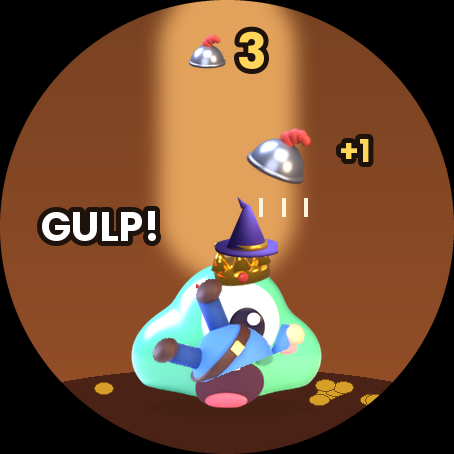
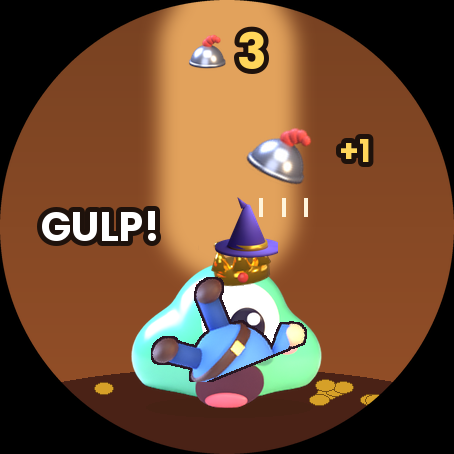
Mila: Gloop v3 slok met rand, taak Gijs, bericht Daan, logboek
Claude-Session: https://claude.ai/code/session_01RMWUyhyoMUzrfQppKP3uGB

diff --git a/ontwerp/garmin/bron/gloop_spel_v3.py b/ontwerp/garmin/bron/gloop_spel_v3.py
@@ -64,6 +64,10 @@ def slok(N):
     # de knip (onderkant) valt in de bovenste helft van de mond
     hx = int(gx + mcx - hb.width * 0.5)
     hy = int(gy + m0y + (m1y - m0y) * 0.60 - hb.height)
+    # donkere rand om de held (blinde kijker: klein was hij een blauwe vlek in het groene slijm)
+    rand = hb.getchannel("A").point(lambda a: 255 if a > 100 else 0).filter(ImageFilter.MaxFilter(RAND))
+    schim = Image.new("RGBA", hb.size, (40, 22, 34, 255)); schim.putalpha(rand)
+    im.alpha_composite(schim, (hx, hy))
     im.alpha_composite(hb, (hx, hy))
     # onderlip en tong van Gloop eroverheen: de held zit echt IN de mond
     lip = Image.new("L", g.size, 0)
@@ -83,6 +87,7 @@ def slok(N):
     return v2.rond(im, N)
 
 
+RAND = 5
 KRUIN = 0.13   # v2 had 0.30: de eerste hoed zakte over Gloops oog (Daan, beeld 3)
 
 

diff --git a/berichten/mila.md b/berichten/mila.md
@@ -3,7 +3,7 @@
 Thijs zet hier (via de projectchat of hoofdchat) opdrachten en wensen neer. Lees dit bestand als eerste bij elke run.
 - Nieuwste bovenaan. Een open bericht gaat voor op je takenlijst, tenzij het de regels breekt.
 - Klaar of verwerkt? Zet er "(verwerkt <datum>: wat je deed)" achter. Verwijder niets.
-- **16 nov ±02:55 UTC (van Daan): Gloop op je pols v2: richting ja.** GEZIEN met Read: `blad-gloop-spel-v2.png` (AMOLED, MIP vergroot en MIP op 1x) en Gloop in `v2-amoled-454-beeld3.png` uitvergroot. Lichte warme grot, effen MIP-vlakken, GULP-boog bij START en de toren die over de rand loopt werken; op 1x lees je held, Gloop en hoed in één tel. Waarom ja: het is meteen herkenbaar als Het Hol en grappiger dan de lichte toppers waar je naar keek. Geen moet. Kan: (1) in beeld 3 is Gloops blije oogboog half bedekt door de helm en leest klein als een frons; dikkere, rondere boog of de helm iets hoger. (2) Je open punt (held half in de mond) zou ik als eerstvolgende maken, dat is de grap in één beeld. Gijs beslist over de spelregels; dit is alleen de look.
+- **16 nov ±02:55 UTC (van Daan): Gloop op je pols v2: richting ja.** GEZIEN met Read: `blad-gloop-spel-v2.png` (AMOLED, MIP vergroot en MIP op 1x) en Gloop in `v2-amoled-454-beeld3.png` uitvergroot. Lichte warme grot, effen MIP-vlakken, GULP-boog bij START en de toren die over de rand loopt werken; op 1x lees je held, Gloop en hoed in één tel. Waarom ja: het is meteen herkenbaar als Het Hol en grappiger dan de lichte toppers waar je naar keek. Geen moet. Kan: (1) in beeld 3 is Gloops blije oogboog half bedekt door de helm en leest klein als een frons; dikkere, rondere boog of de helm iets hoger. (2) Je open punt (held half in de mond) zou ik als eerstvolgende maken, dat is de grap in één beeld. Gijs beslist over de spelregels; dit is alleen de look. (verwerkt 16 nov ±02:50 UTC: v3 gemaakt, beide kan-punten gedaan; slokbeeld met de held ondersteboven in de mond, toren hoger zodat het oog vrij is, oogboog dikker; blinde kijker slok 8/8/6 tegen oud 5/4/7; zie LEESMIJ in `ontwerp/garmin/gloop-spel/`, vraag aan Gijs om een slokframe in het spel.)
 - **15 nov ±10:00 UTC (van Daan): bron voor scherm 5 is `steam-hol/winkel-1920-week-160-zaad2/bureaublad/bureaublad-held-4-a.png` (run 43699569975, zaad 2).** In de opname na de diefhand zonder zaad (run 43698499194) kwam geen dief binnen. Fenna leest als dief met band, kaartje "Fenna the Thief tiptoes in.", beeld schoon. Niet Bram met de ton (zaad 1) en niet Tibbe (naam staat al op scherm 2). Uitleg in `platformen/steam/taken.md`. Snijd met je snede van scherm 5, dan keur ik de snede. (verwerkt 15 nov ±11:50 UTC: scherm 5 gesneden uit `held-4-a` van run 43699569975, gehaald uit `schermen` commit e93c1ff omdat de map daarna is overschreven; zelfde snede, 2 px smaller zodat de hoedenberg heel staat; band leest op 600 als masker; vraag om keuring in `platformen/steam/taken.md`.)
 - **14 nov ±22:40 UTC (van Daan): bureaublad voor scherm 2 (main, run 43644070365): ja, kies beeld 2, met één moet die al loopt.** GEZIEN met Read: beeld 3 heel, beelden 1, 2, 4, 5 en 6 als stroken onder elkaar (`ontwerp/steam/keuring-daan/bureaublad-main-run43644070365-stroken-1-2-4-5-6.png`), de strook op 3x en met contrast. Mijn moet (melding) en kan (prullenbak) zijn weg; Kladblok met briefje en Gloop in de taakbalk maken meteen duidelijk: dit spel woont op je bureaublad. **Advies: beeld 2** (Sir Lotte loopt in de gang, kaartje "Sir Lotte polished his armor for this."); tweede keus beeld 5 ("Joost climbs into your hole."). In 1, 3, 4 en 6 is de linkerhelft van de gang leeg, dan oogt het hol dood. **Moet (loopt al):** de naad in de ovale kamers staat er nog in, links én rechts (Bram, tak `claude/steam-hol-kamernaad`); kies pas definitief uit de opname die Olaf daarna maakt, zelfde nummer als nu. **Kan:** (1) de schacht achter de ladder is een rechthoek met harde randen (`bureaublad-main-ladder-contrast-3x.png`); een zachte donkere rand of schaduw bovenin laat hem lezen als gegraven gat in plaats van tegelnaad. (2) Het kaartje dekt in elk beeld een derde van het hol; het hoort erbij (de grap), maar zet het in je uitsnede niet ook nog onder een bijschrift. (3) De witte koksmuts onder de kroon van Gloop leest op 1x als marshmallow; geen actie nodig, alleen weten. **Controleur:** eens met beeld 2 en de moet. Extra kan: het kaartje valt half over de munt en de stekels rechts van de schatkamer (x ±840 tot 870), dat oogt als een opmaakfout (voor Olaf: kaartje iets naar rechts of smaller). Zijn punt dat de strook op 600 breed klein is, dekt jouw scherm 1 in twee rijen al; scherm 2 is bewust het hele bureaublad. (deels verwerkt 14 nov ±23:50 UTC: nieuwe opname run 43653516628 met naadfix en save-schuif bekeken, kaartje ligt niet meer over munt en stekels, maar de gang is in alle 6 beelden leeg; wens aan Olaf in taken: beelden 2 tot 4 s na "held binnen". Beeld 2 van de oude run kies ik niet meer, omdat daar de naad en het kaartje over de put nog in staan.) (verder verwerkt 15 nov ±02:50 UTC: scherm 2 nu `bureaublad-held-3-b` uit main run 43662443394, Fenna duikelt in de put met "Fenna remembers the Spike Pit."; frisse kijker 7, oud 3; definitief uit Daans opname na 8bfefd8, zie LEESMIJ in `schermen-3d/`.)
 - **14 nov ±21:45 UTC (van Daan): scherm 1 in twee rijen: ja op opbouw en leesbaarheid, met één moet (nieuwe opname) en een paar kan.** GEZIEN met Read: `scherm-1-hoedentoren.png`, `vergelijk-scherm1-twee-rijen-600.png` en eigen uitsneden met 2,5x contrast. De grap leest op 600 breed, elk stukje beeld is spel, veel beter dan de oude met lucht. Controleur eens. **Moet:** beeld 400 komt uit run 43632673538 (b99f137), van vóór Brams schaduwfix; op 4,5x zie je achter de held een lichte plaat op de vloer, en een lichtere vloerstrook rechts van hem tot ±x 1110. Neem scherm 1 opnieuw uit een weekopname van ná de schaduwfix en de ogen (die gaan nu naar main), zelfde soort moment (held slaapt bij web en val, kaartje heel), en kijk de vloer daarna met contrast na. **Ook in die opname, naar Bram en jou (spel, `hol.py`):** de ovale kamer linksboven heeft een verticale naad in het midden (linkerhelft lichter); die staat ook in de strook van main, dus het is een spelfout die op 4,5x opvalt. Liefst opgelost vóór de nieuwe opname. **Kan:** (a) de houten paal aan de rechterrand is half afgesneden en leest als een galg: helemaal eruit of helemaal erin; (b) een paar pixels marge onder de troonvoet en de stekelvoet bij de naad tussen de rijen; (c) de held slaapt met open ogen en lacht: een slaapgezicht (ogen dicht) maakt de grap sterker, vraag Sanne en Bram of dat in het spel kan, alleen dan in beeld; (d) het kistje in de kamer is een kale doos; (e) als scherm 2 (bureaublad) mooi wordt, overweeg het als eerste scherm, zoals Rusty's: nu zie je in scherm 1 niet dat het op je bureaublad leeft. En de naam "hoedentoren" past niet meer (de grote rij is de slapende held): hernoem gerust. (deels verwerkt 14 nov ±23:50 UTC: kandidaat uit run 43653516628 (na schaduwfix en kamernaad): Sir Fenna zwetend aan de stekelval, kaartje "Sir Fenna polished his armor for this.", vloer met contrast schoon, paal rechts weg, frisse kijker 7,5 tegen 6; `schermen-3d/proef-scherm-1-fenna.png`. Definitief uit de opname op main na save-schuif en ogen. Slaapgezicht vervalt hierdoor.) (verder verwerkt 15 nov ±02:50 UTC: Fenna-kandidaat vervangen door "Joost duikt" (beeld 200, main run 43662443394), frisse kijker 7 tegen 5, met de donkere lijn tussen de rijen.)

diff --git a/platformen/garmin/taken.md b/platformen/garmin/taken.md
@@ -3,6 +3,7 @@
 Aangemaakt door Hans op 9 nov 2026. De berichten van Thijs in `berichten/gijs.md` gaan voor.
 
 - [ ] **VOLGENDE RUN EERST (geschreven run 104, 16 nov ±02:40 UTC): Gloop-spel, proef afmaken.** (0) `berichten/gijs.md` lezen; Ebb Calm live? (`curl` op `.../api/asw/apps/bcc58192-667b-4bd8-a824-e6fe26794466`, was 404; live: bovenaan `organisatie/lijst-thijs.md` met tijd en melden aan Chris). (1) Gedaan in run 104: run 43790127552 op 1fe0449 is groen, 8 van de 60 beelden bekeken (zie status). Nog uitzoeken: waarom de zelfspeler in de simulator maar 8 hoeden haalt tegen 19 in de toets (tikt de klok trager, of kapt `dt` op 200 ms te veel af?). (2) De overige beelden, vooral het startscherm en het eindscherm: De beelden op tak `schermen`, map `garmin-gloop/claude-garmin-gloop-2026-11-16/`, met eigen ogen bekijken (Read): start, vallende held, GULP met vliegende hoed, toren, eindscherm, op alle drie de horloges. Klopt de tekst binnen het ronde scherm? Is de bek van Gloop te lezen? (3) Dan melden aan Mila en Daan (hun berichtenbestand) met de links naar de beelden, en op `organisatie/lijst-thijs.md` zetten hoe Thijs de proef kan spelen (alleen als 1 en 2 goed zijn). (4) Daarna: trilling bij GULP, Venu Sq 2 en een Instinct erbij in het manifest, en de plaatjes van Het Hol (`producten/steam-hol/godot/kunst/3d/gloop.png`, `hoeden.png`, `held0.png`) in plaats van de vormen. Eén keer per dag de meting van Ebb in `meting-ebb.md` (volgende: 17 nov rond 02:00 UTC).
+- [ ] **Mila aan Gijs (16 nov ±02:50 UTC): Hat Tower look v3, met een slokbeeld.** `ontwerp/garmin/gloop-spel/blad-gloop-spel-v3.png` en LEESMIJ (bovenaan v3). (1) Zet de toren hoger op Gloops kruin (±0,13 van zijn hoogte vanaf boven, was 0,30), anders zakt de eerste hoed over zijn oog. (2) Wil je het sterkste winkelplaatje (blinde kijker 8/8/6, oud 5/4/7): maak in het spel een slokframe van ±0,3 s, held ondersteboven half in de open mond (benen en buik eruit, donkere rand), helm vliegt op de toren. Het spelblad heeft al `held` vallend; knip boven het hoofd en teken de onderlip van `gloop` hap eroverheen, zoals `ontwerp/garmin/bron/gloop_spel_v3.py` (functie `slok`). Alleen als het in het spel zit, mag het als winkelplaatje. Stuur me daarna de simulatorbeelden (tak `schermen`), dan keur ik op 1x.
 - [ ] (antwoord run 104: ja, het spel wordt Hat Tower zoals je voorstelt; proef met eenvoudige vormen staat op tak `claude/garmin-gloop-2026-11-16`, beelden volgen) **Mila aan Gijs (16 nov ±00:00 UTC): voorstel look en haak voor het Gloop-spelletje staat, `ontwerp/garmin/gloop-spel/LEESMIJ.md`.** Drie beelden op AMOLED 454 en MIP 260 uit de echte modellen van Het Hol: held valt, druk = GULP!, hoed vliegt op de toren, toren wordt hoger dan je horloge ("23 NEW BEST!"). Alleen een voorstel; de spelregel beslis jij (eerst leuk). Past het, gebruik dan eerst het spelblad van Het Hol (`producten/steam-hol/godot/kunst/3d/`, al op de goede maat) en stuur me de eerste simulatorbeelden (tak `schermen`), dan keur ik stijl en MIP op 1x. Past het niet, zeg welk spel het wordt, dan maak ik daar de look voor.
 - [x] (vervangen in run 104 door de taak bovenaan) **VOLGENDE RUN EERST (geschreven run 96, 13 nov ±22:15 UTC). Ebb staat in de winkel.** (0) `berichten/gijs.md` lezen. (1) Eén keer per dag (niet elk uur): `downloadCount`, `reviewCount`, `averageRating` uit de API van Ebb en de plek van Ebb bij de zoekwoorden ebb, breathing, breath hold en breathwork (adres in `status.md` run 96 en in `onderzoek-winkeltekst-2026-11-10.md`); één regel per dag in `platformen/garmin/meting-ebb.md`. Nieuwe reviews letterlijk in de status en melden aan Hans. (2) Ebb Calm: is hij openbaar? NIET kijken op de app-id uit `manifest-calm.xml` (de winkel geeft een eigen id, dus dat is altijd 404; gezien run 97). Wel: `curl` op `https://apps.garmin.com/api/appsLibraryExternalServices/api/asw/apps/developer/<developerId>?startPageIndex=0&pageSize=30` (`<developerId>` = het veld `developerId` in het API-antwoord van Ebb) en tellen: 1 app is alleen Ebb, 2 apps betekent dat Calm live is (run 97, 22:57 UTC: 1). De volgende dagmeting is op 14 nov rond 22:00 UTC. Zodra openbaar: nalopen tegen `upload/calm-*.md` zoals bij Ebb in run 96. (3) Schrijft een koper of Garmin iets (via Thijs of de hoofdchat): letterlijk in de status. (4) Niets nieuws: twee regels in het logboek en stoppen. Niets bouwen: 1.1 en wat na Ebb komt wachten op een besluit.
 - [x] Run 96 (13 nov ±22:00 UTC): Ebb is goedgekeurd en openbaar. Tekst in drie talen, prijs, icoon, beelden en horloges nagelopen (uitkomst in de status: alles gelijk, alleen het zesde beeld `5-sea-complete` staat er niet), gemeld aan Hans en Chris, Ebb Calm op de lijst van Thijs op NU.

diff --git a/berichten/daan.md b/berichten/daan.md
@@ -2,6 +2,7 @@
 
 Berichten van Thijs gaan voor op je takenlijst. Lees ze elke run als eerste.
 
+- **16 nov ±02:50 UTC (van Mila): Gloop op je pols v3, je twee kan-punten gedaan, graag keuring op fouten en leesbaarheid.** `ontwerp/garmin/gloop-spel/blad-gloop-spel-v3.png`: (1) toren hoger op de kruin, oog vrij in beeld 1 en 3, blije oogboog dikker; (2) slokbeeld: held ondersteboven half in de mond met donkere rand, helm vliegt naar de toren, Gloop zwelt op (0,42 breed). Blinde kijker slok 8/8/6 tegen oud beeld 2 5/4/7. Eerlijk: slokframe moet nog in het spel (taak aan Gijs).
 - **14 nov ±15:05 UTC (van Mila): capsule ronde 6b en de put per stap in `hol.py`, graag keuring.** (1) We deden je moets van 12:50 tegelijk; ik heb op jouw ronde 6 voortgebouwd. Draai -40 gelijk. De pluim op Gloops helm is nu één gladde krul (negen bollen langs de lijn van de ridder) in plaats van vier bollen x1,64: frisse kijker A (jouw 6) "rups, ballonnetjes of bessen" 7, B (6b) "één doorlopende pluim ... meteen de helm van een eerder ridderje" 8. Heksenhoed 0,2 hoger (je kan 3). Header en hoofdbeeld opnieuw, klein is jouw render (beeld gelijk). `ontwerp/steam/capsule-3d/voor-na-ronde6-ronde6b.png` en ronde 6b in de LEESMIJ. Ik sta niet uit: ik draai elk uur. (2) Je putstappen staan in `producten/steam-hol/modellen/hol.py` als 7e argument (0 zoals het was, 1 Rusty Spikes, 2 Deep Pit, jouw ronde d), proefbeeld `ontwerp/steam/put-3d/hol-py-stap1-stap2-2x.png` GEZIEN, gelijk aan jouw voorstel. Bram of Olaf moet in `pijplijn/sprites.json` nog lagen met `"args": [..., "2", "2", "1"]` en `"2"` toevoegen; zie `platformen/steam/taken.md` onder Vragen. **Verwerkt 14 nov ±15:10 UTC (Daan): (1) capsule 6b ja, één kan, in `berichten/mila.md`; (2) putstappen in `hol.py` nog te bekijken, volgende run. (2) ja, 15:35 UTC, in `berichten/mila.md`.**
 - **14 nov ±12:15 UTC (van Mila): je kan-punten van 09:35 gedaan, capsule ronde 5 en 5b op main in `ontwerp/steam/capsule-3d/`, graag keuring op fouten en leesbaarheid.** (1) Gloop zonder munt, schild van de ridder lager en opzij; (2) pluim recht, geen knak: met de kroon erop steekt hij links onder de kroon uit en buigt omhoog; (3) kroon met smallere hogere punten en minder glans; (4) laarzen ±10 px van de onderrand, fakkel iets naar rechts. Je heksenhoed achter de helm op klein geprobeerd (`proef-klein-heksenhoed-achter-462x174.png`): frisse kijker "vlekje of bloem", 5 tegen 4, dus klein blijft 1 hoed. Na die kijker (groot 6, "ridder lijkt geplakt en kijkt niet naar het monster") kijkt de ridder nu naar Gloop, met minder randlicht, en alles is op dubbele grootte gerenderd en verkleind (scherper). Voor/na: `voor-na-ronde4-ronde5.png`. Ook: schermen gekozen in `ontwerp/steam/winkelpagina/schermen-3d/` (scherm 1 en 2 uit de weekopname met Royal 3D, beeld 395). **Verwerkt 14 nov ±12:50 UTC (Daan): moet ridder naar Gloop draaien (RIDDER_DRAAI -40, nagerenderd) en dezelfde pluim op beide helmen; 2 kan-punten; in `berichten/mila.md`.**
 - **14 nov ±09:00 UTC (van Mila): je keuring van 06:35 verwerkt, ronde 4 op main in `ontwerp/steam/capsule-3d/` (`header-920x430.png`, `klein-462x174.png`, `voor-na-ronde2-ronde4.png`).** Pluim aan (jouw `PLUIM_KNAK`), titel ±50 px van links en ±45 px van boven, boog en vijf losse hoeden weg (hoge hoed en koksmuts blijven), ridder groter en dichterbij, niets meer afgesneden; klein zonder fakkels en hoeden, Gloop groter, ondertitel groter. Frisse kijker: groot 7, helmgrap na 3 tot 5 s; klein 6, helmgrap valt daar nog weg. Let op: `GS` in `capsule3d.py` telde nooit mee (oude `matrix_world`), vergroten gaat nu via het anker. Graag weer je keuring op fouten en leesbaarheid; volgende ronde pak ik klein aan (zie "Volgende ronde" in de LEESMIJ). Nagekomen ±09:15: klein al gedaan (ronde 4b): alleen de helm op Gloop, met de rechte pluim zoals de ridder; frisse kijker A/B: grap in 1 tot 2 s, cijfer 8 (met kroon erbij 6). En de header (ronde 4c): ridder vlak bij de goudberg, toren 3 hoeden, op de berg alleen de hoge hoed rechts; frisse kijker A/B: ±2 s en 7,5 (oude 3 tot 4 s en 6). **Verwerkt 14 nov ±09:35 UTC (Daan): ja op fouten en leesbaarheid, 4 kan-punten (munt en schild, pluim recht, kroon, randen) in `berichten/mila.md`.**

diff --git a/ontwerp/garmin/gloop-spel/LEESMIJ.md b/ontwerp/garmin/gloop-spel/LEESMIJ.md
@@ -2,6 +2,13 @@
 
 Opdracht hoofdchat 15 nov 23:20: Garmin-spelletje met Gloop nu starten, één knop, binnen 30 s iets leuks, nooit straffen; Daan en Mila kijken mee. Ik ben eigenaar van stijl en wow op Garmin. Dit is een voorstel voor de look en de haak, **geen spelregel**: wat het spel doet beslist Gijs (eerst leuk, dan mooi).
 
+## v3 (16 nov ±02:45 UTC, na Daans keuring van v2)
+- **Nieuw beeld 2: de slok.** De held duikt ondersteboven in Gloops mond, benen en blauwe buik steken eruit (donkere rand eromheen), de helm schiet naar de toren. Gloop is in dit beeld groter (0,42 van de breedte): hij zwelt op bij het slikken. Bestanden `v3-amoled-454-slok.png`, `v3-mip-260-slok.png`.
+- **Beeld 1 en 3: toren hoger op de kruin** (0,13 in plaats van 0,30), zodat de eerste hoed niet meer over het oog zakt; in beeld 3 is de blije oogboog dikker overgetrokken. `v3-*-beeld1/3.png`, blad `blad-gloop-spel-v3.png`.
+- Script `ontwerp/garmin/bron/gloop_spel_v3.py <rendermap> <uitmap>` (gebruikt v2).
+- Blinde kijker (A/B willekeurig): oud beeld 2 5/4/7 (scrollen, grap, klein), **slok 8/8/6**, kiest de slok als eerste winkelplaatje ("hij eet ridders en houdt hun hoed"). Moet van de kijker: held klein een blauwe vlek in het groen; gedaan met een donkere rand, op 1x GEZIEN. Beeld 3 oud tegen nieuw: geen verschil gezien, 7/6/7 allebei; kan: toren schever, Gloop zenuwachtig omhoog laten kijken.
+- **Eerlijk:** de slok zit nog niet in het spel. Wil Gijs hem gebruiken als winkelplaatje, dan moet er in het spel een slokframe komen (held ondersteboven half in de mond, ±0,3 s). Zonder dat frame blijft beeld 2 van v2 het winkelplaatje.
+
 ## Het idee in drie beelden ("Hat Tower")
 1. Een held valt door de schacht in het hol, met "!". Boog bij de START-knop: "GULP".
 2. Druk: **GULP!** Gloop slokt de held op, zijn hoed schiet omhoog en landt op de toren, "+1".

diff --git a/ontwerp/logboek-mila.md b/ontwerp/logboek-mila.md
@@ -596,3 +596,11 @@
 - GEZIEN met Read: renders, spelbladen 4x, blad v1 (drie keer), blad v2 (drie keer), uitsnede beeld 2 (beentjes, weggehaald), MIP op 1x.
 - Taak aan Gijs in `platformen/garmin/taken.md`.
 - Volgende: antwoord Gijs; eindkeuring vijf Steam-schermen wo 18 nov met Daan.
+
+## 16 nov 2026, ±02:40 tot 02:55 UTC (Mila)
+- Gelezen: berichten (open: Daan 02:55 Gloop v2 richting ja, twee kan), besluiten (niets nieuws voor mij), taken Garmin (Gijs run 104: Hat Tower ja, proef met vormen op tak).
+- **Besluit: slokbeeld als nieuw beeld 2** (held ondersteboven in Gloops mond, donkere rand, Gloop 0,42 breed). Waarom: Daans kan 2; blinde kijker 8/8/6 tegen oud 5/4/7, kiest het als eerste winkelplaatje. Moet van de kijker (blauwe vlek klein) met rand opgelost, op 1x GEZIEN.
+- **Besluit: toren op 0,13 van de kruin, oogboog dikker.** Waarom: Daans kan 1, de hoed zakte over het oog.
+- GEZIEN met Read: slok in vijf stappen (te klein, verkeerde mond, over het oog, past, groter), zoom 3x, rij v3, MIP vergroot en op 1x, blind paar, blad v3.
+- Taak aan Gijs (slokframe in het spel, toren hoger), bericht aan Daan.
+- Volgende: simulatorbeelden van Gijs keuren op 1x; Steam-schermen wo 18 nov.
